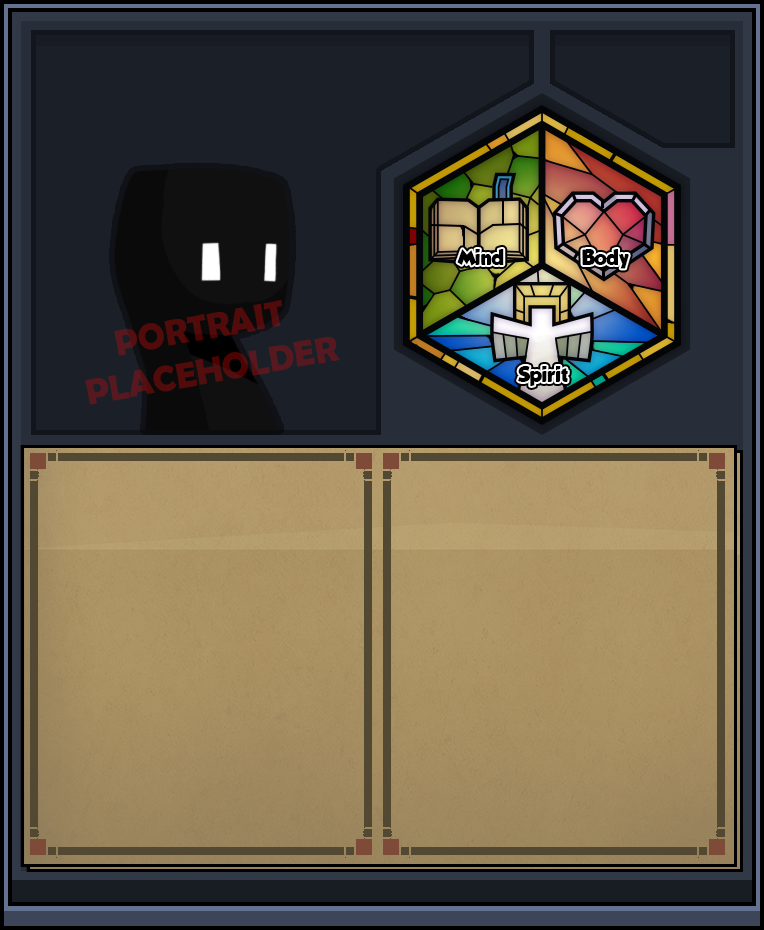
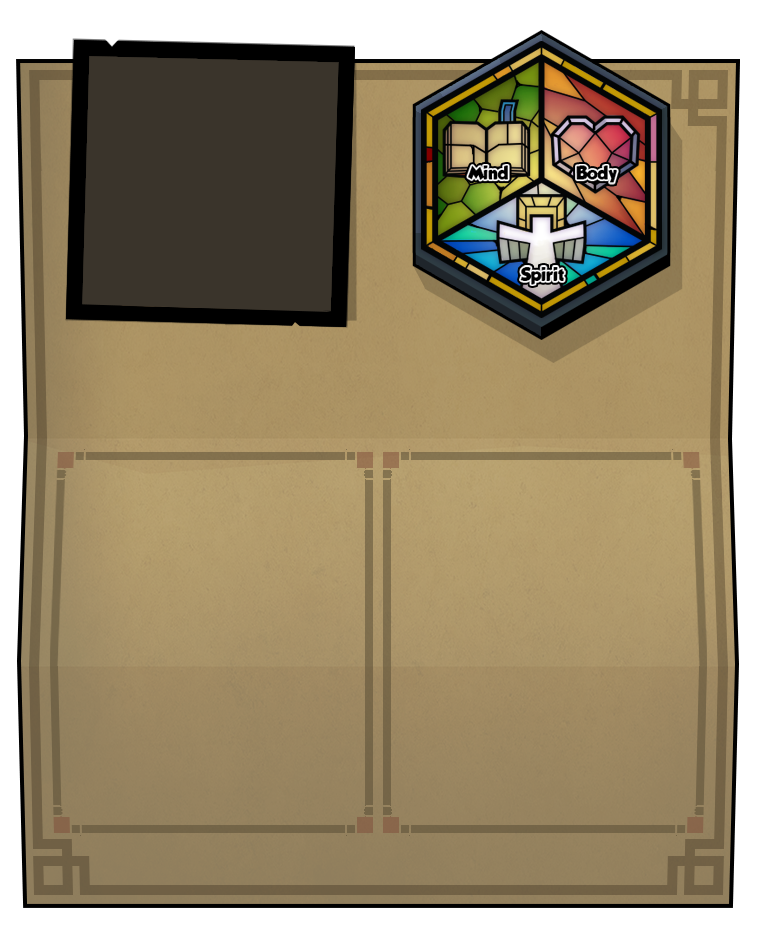
New styling for the character sheet, and implement proper focus management of modals.

diff --git a/source/stonehearth_data/mods/stonehearth/ui/game/character_sheets/citizen_character_sheet/citizen_character_sheet.less b/source/stonehearth_data/mods/stonehearth/ui/game/character_sheets/citizen_character_sheet/citizen_character_sheet.less
@@ -12,26 +12,25 @@
    
    #header {
       position: absolute;
-      top: 52px;
-      left: 50px;
+      top: 340px;
+      left: 70px;
+      font-family: @headerFontFamily;
+      color: #473c28;
 
       .name {
-         .controlFont;
          font-size: 36px;
       }
 
       .description {
-         .controlFont;
          font-size: 26px;
-         color: #fff;
       }
    }
 
    #glass {
       .controlFont;
       position: absolute;
-      top: 185px;
-      left: 430px;
+      top: 105px;
+      left: 440px;
       color: #fff;
       font-size: 50px;
       text-shadow: -4px -4px 0px #000, 0px -4px 0px #000, 4px -4px 0px #000, -4px 0px 0px #000, 4px 0px 0px #000, -4px 4px 0px #000, 0px 4px 0px #000, 4px 4px 0px #000;
@@ -45,14 +44,14 @@
       #body {
          position: absolute;
          top: 0px;
-         left: 124px;
+         left: 110px;
          width: 100px;
       }
 
       #spirit {
          position: absolute;
-         top: 120px;
-         left: 62px;
+         top: 100px;
+         left: 50px;
          width: 100px;
       }
    }
@@ -68,15 +67,15 @@
    .column1 {
       position: absolute;
       top: 467px;
-      left: 50px;
-      width: 295px;
+      left: 78px;
+      width: 275px;
    }
 
    .column2 {
       position: absolute;
       top: 467px;
       left: 407px;
-      width: 295px;      
+      width: 275px;      
    }
 
    table {
@@ -103,15 +102,15 @@
    }
 
    #persona {
-      font-size: 16px;
+      font-size: 15px;
 
       #latestJournal {
-         font-size: 13px;
+         font-size: 11px;
       }
    }
 
    #attributes {
-      font-size: 16px;
+      font-size: 15px;
 
       .value {
       }

diff --git a/source/stonehearth_data/mods/stonehearth/ui/root/js/stonehearth/container_view.js b/source/stonehearth_data/mods/stonehearth/ui/root/js/stonehearth/container_view.js
@@ -1,3 +1,18 @@
+// management of modal views 
+$(document).ready(function(){
+   App.stonehearth.modalStack = []
+
+   $(document).keyup(function(e) {
+      if(e.keyCode == 27) {
+         if (App.stonehearth.modalStack.length > 0) {
+            var modal = App.stonehearth.modalStack.pop();
+            modal.ownerView.destroy();
+         } else {
+            App.gameView.addView(App.StonehearthEscMenuView);
+         }
+      }
+   });
+});
 
 App.ContainerView = Ember.ContainerView.extend({
 
@@ -14,7 +29,11 @@ App.ContainerView = Ember.ContainerView.extend({
       if (childView.get('modal')) {
          var modalOverlay = this.addView('StonehearthModalOverlay', { modalView: childView });
          childView.modalOverlay = modalOverlay;
+         modalOverlay.ownerView = childView;
          this.pushObject(modalOverlay);
+
+         App.stonehearth.modalStack.push(modalOverlay);
+
       }
 
       this._viewLookup[type] = childView;

diff --git a/source/stonehearth_data/mods/stonehearth/ui/game/esc_menu/esc_menu.js b/source/stonehearth_data/mods/stonehearth/ui/game/esc_menu/esc_menu.js
@@ -1,13 +1,3 @@
-$(document).ready(function(){
-   $(document).keyup(function(e) {
-      if(e.keyCode == 27 && !App.escMenu){
-         App.escMenu = App.gameView.addView(App.StonehearthEscMenuView)
-      } else {
-         App.escMenu.destroy();
-      }
-   });
-});
-
 
 App.StonehearthEscMenuView = App.View.extend({
    templateName: 'escMenu',
@@ -15,11 +5,6 @@ App.StonehearthEscMenuView = App.View.extend({
    modal: true,
 
    init: function() {
-      this._super();
-   },
-
-   destroy: function() {
-      App.escMenu = null;
       this._super();
    },
 
@@ -32,8 +17,9 @@ App.StonehearthEscMenuView = App.View.extend({
    },
 
    actions: {
+
       resume: function() {
-         App.escMenu.destroy();
+         this.destroy();
       },
 
       qyuitToMainMenu: function() {

diff --git a/source/stonehearth_data/mods/stonehearth/ui/common/modal_overlay/modal_overlay.js b/source/stonehearth_data/mods/stonehearth/ui/common/modal_overlay/modal_overlay.js
@@ -22,6 +22,12 @@ App.StonehearthModalOverlayView = App.View.extend({
          });
       */
       radiant.keyboard.setFocus(null);
+
+      var index = App.stonehearth.modalStack.indexOf(this)
+      if (index > -1) {
+         App.stonehearth.modalStack.splice(index, 1);
+      }
+
       this._super();
    },
 

diff --git a/source/stonehearth_data/mods/stonehearth/ui/root/js/app.js b/source/stonehearth_data/mods/stonehearth/ui/root/js/app.js
@@ -190,6 +190,8 @@ App = Ember.Application.createWithMixins({
   	}
 });
 
+App.stonehearth = {};
+
 App.Router.map(function() {
 
 });

diff --git a/source/stonehearth_data/mods/stonehearth/ui/common/modal_overlay/modal_overlay.less b/source/stonehearth_data/mods/stonehearth/ui/common/modal_overlay/modal_overlay.less
@@ -6,5 +6,5 @@
    width: 100%;
    height: 100%;
    background: #000;
-   opacity: 0.0;
+   opacity: 0.3;
 }
